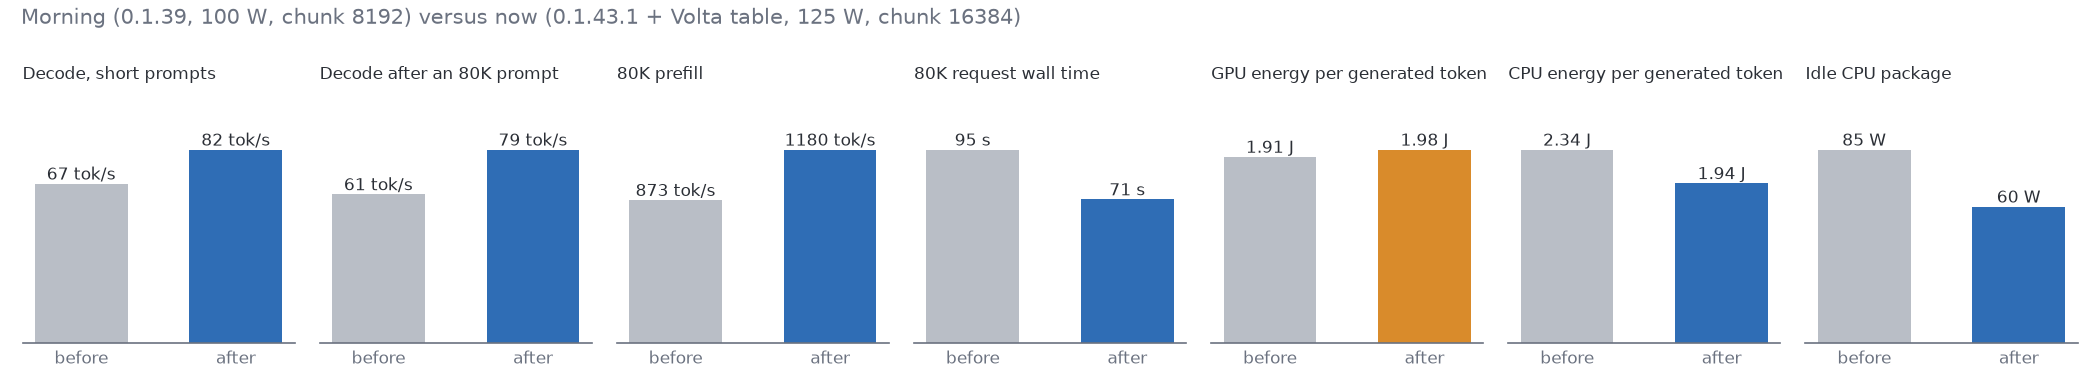
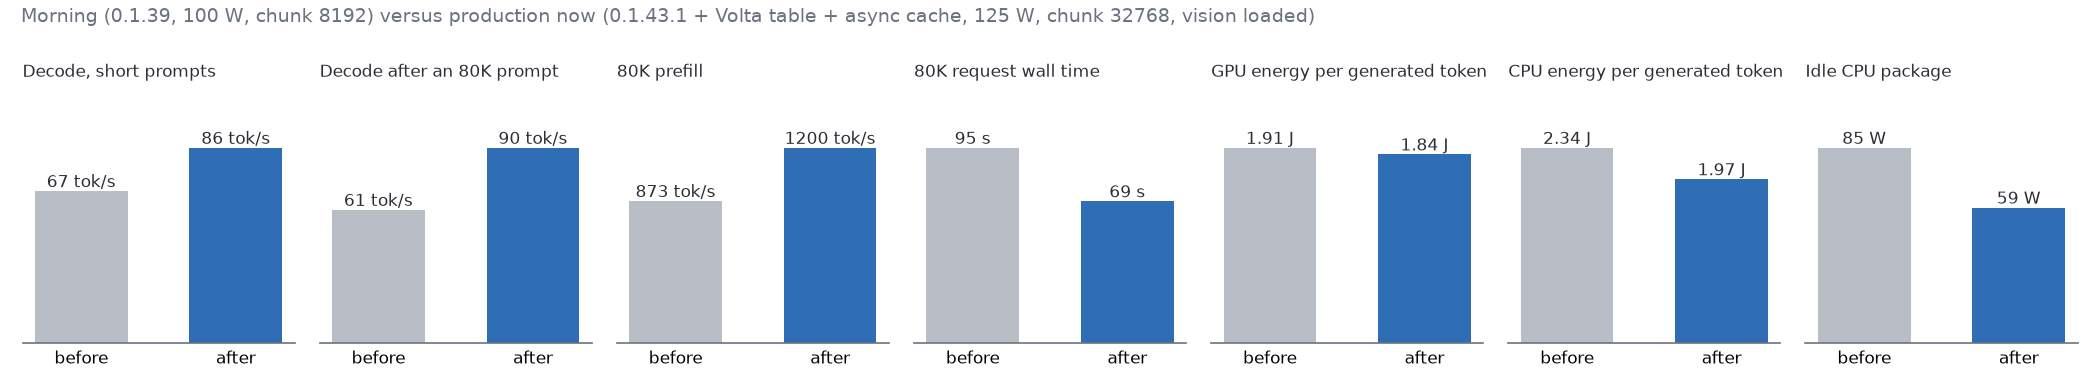
vault publish: 2026-10-18 18:30 (m5pro 371 notes, bigrig 80 notes)

diff --git a/01 Projects/Strata/Strata V100 tuning — 2026-10-18.md b/01 Projects/Strata/Strata V100 tuning — 2026-10-18.md
@@ -19,12 +19,12 @@ Goal: the most useful tokens per second and per joule out of one Tesla V100-PCIe
 
 ![[strata-v100-tuning-20261018/headline.png]]
 
-| | morning (0.1.39, 100 W, chunk 8192) | now (0.1.43.1 + Volta table, 125 W, chunk 16384) |
+| | morning (0.1.39, 100 W, chunk 8192) | production now (0.1.43.1 + Volta table + async cache, 125 W, chunk 32768, vision loaded) |
 |---|---:|---:|
-| decode, short prompts | 67 tok/s | 81 tok/s |
-| decode after an 80K prompt | 61 tok/s | 79 tok/s |
-| 80K prefill | 873 tok/s | 1180 tok/s |
-| 80K request wall / TTFT | 94.9 s / 91.4 s | 70.5 s / 67.7 s |
+| decode, short prompts | 67 tok/s | 86 tok/s |
+| decode after an 80K prompt | 61 tok/s | 90 tok/s |
+| 80K prefill | 873 tok/s | 1200 tok/s |
+| 80K request wall / TTFT | 94.9 s / 91.4 s | 68.9 s / 66 s |
 | short coding request wall (400 tokens, medium reasoning) | 8.25 s | 7.09 s |
 | GPU J per generated token | 1.9–2.1 | 1.9 |
 | idle CPU package | 85 W | 59 W |
@@ -91,6 +91,29 @@ The model's own encoder (Q8_0 requantization of the BF16 mmproj, 615 MB, llama.c
 The async adaptive tier (opt-in in 0.1.43.1; upstream: answers can differ slightly from the blocking tier) is +6-9%
 decode at lower energy; the 32K chunk ceiling +1.6% prefill. Both go to a round-3 acceptance on the production
 vision configuration plus the 24-task suite before adoption. Swap/adaptation rates and the n-gram row cache: flat.
+
+## Round 3 acceptance on the production vision configuration, and the switch (2026-10-18 evening)
+
+| | production vision config | + `--adapt-async 1` + chunk ceiling 32768 |
+| --- | ---: | ---: |
+| decode short / after 80K | 78.5 / 82.7 tok/s | **86.4 / 89.6** tok/s |
+| 80K prefill | 1182 tok/s | 1200 tok/s |
+| GPU J/token (short) | 1.90 | 1.85 |
+| correctness gate | 2/2 | 2/2 |
+| 24-task suite: median wall / total / passes | 32.6 s / 954 s / 23 | **29.6 s / 874 s / 23** |
+
+The task suite on the candidate: median task wall 29.6 s (Oct 13 at 250 W: 37.2 s), median decode 92.5 tok/s, 23/24
+passes with one task flipping each way (e11 now passes, e13 now fails; both were "varies between repeats" tasks in
+the Oct 13 three-seed campaign). Adopted. **Production since 18:3x:** the vision binary, Q8_0 encoder at 2048 image
+tokens, `--vram-reserve-mib 2400 --adapt-async 1`, `STRATA_PREFILL_AUTO_MAX=32768`, plus the earlier variables;
+backup `config.json.before-vision-async-*`. Live checks: health, eight image tests, variables and flags in the engine
+process, 125 W cap.
+
+**Against the morning (100 W, 0.1.39, chunk 8192):** short decode 67 -> 86 tok/s (+29%), decode after 80K 61 -> 90
+(+47%), 80K prefill 873 -> 1200 (+37%), 80K request 95 -> 69 s, task-suite median 37.2 s (at 250 W!) -> 29.6 s,
+with the vision encoder loaded and lower energy per token.
+
+![[strata-v100-tuning-20261018/tasks-ab.png]]
 
 ## Still open
 
